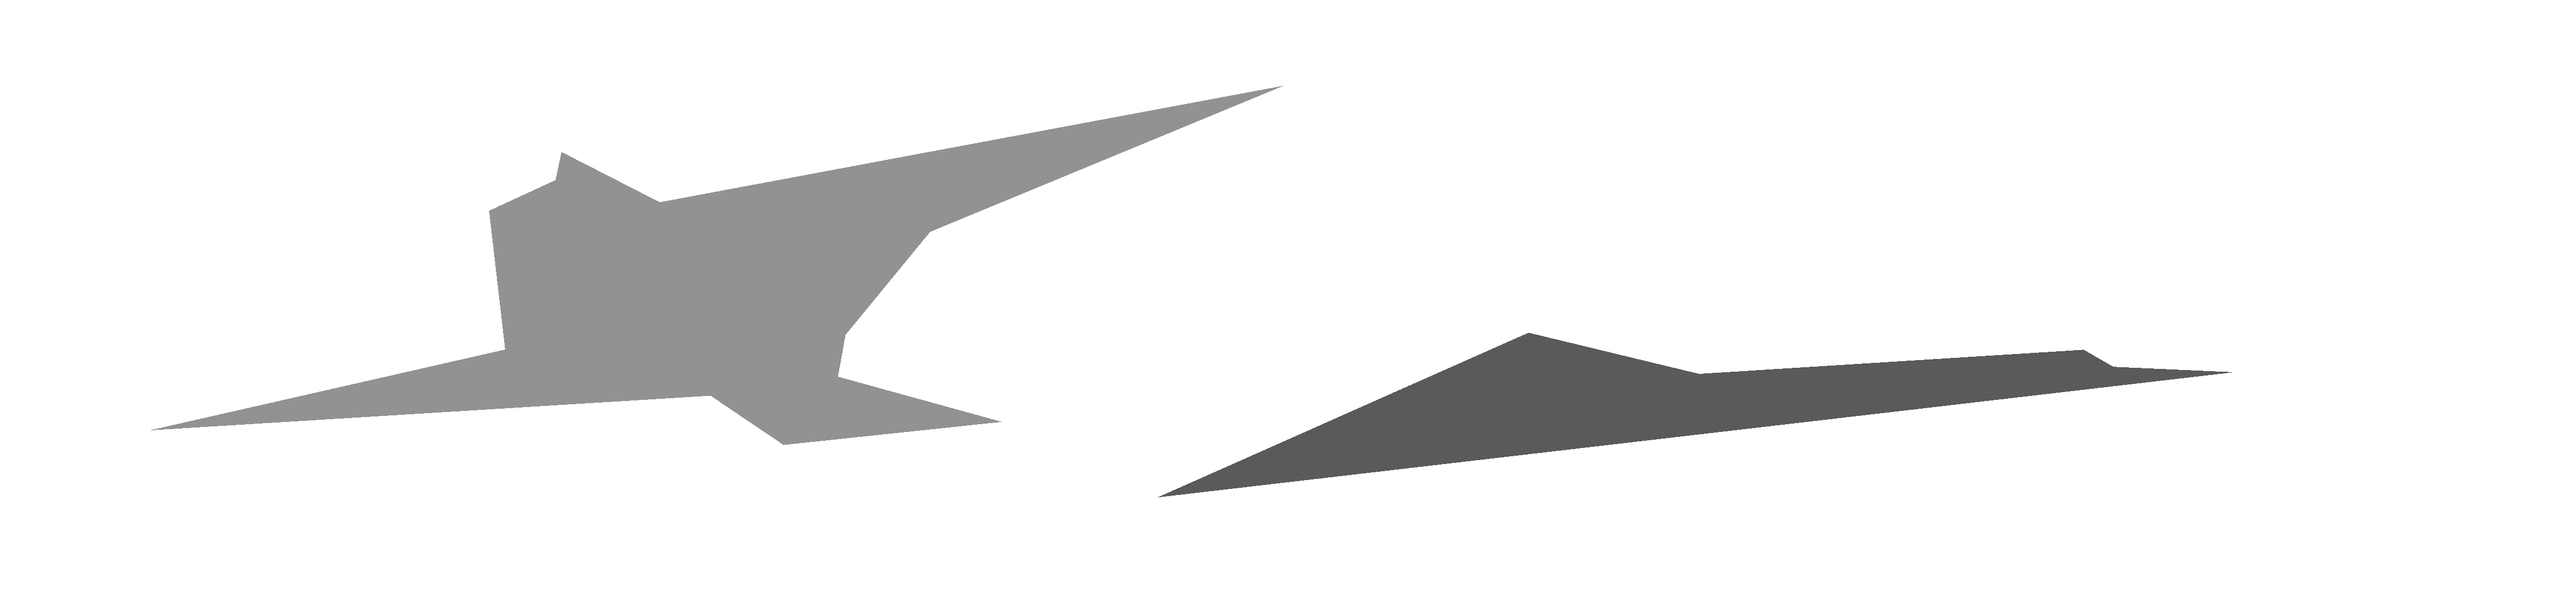
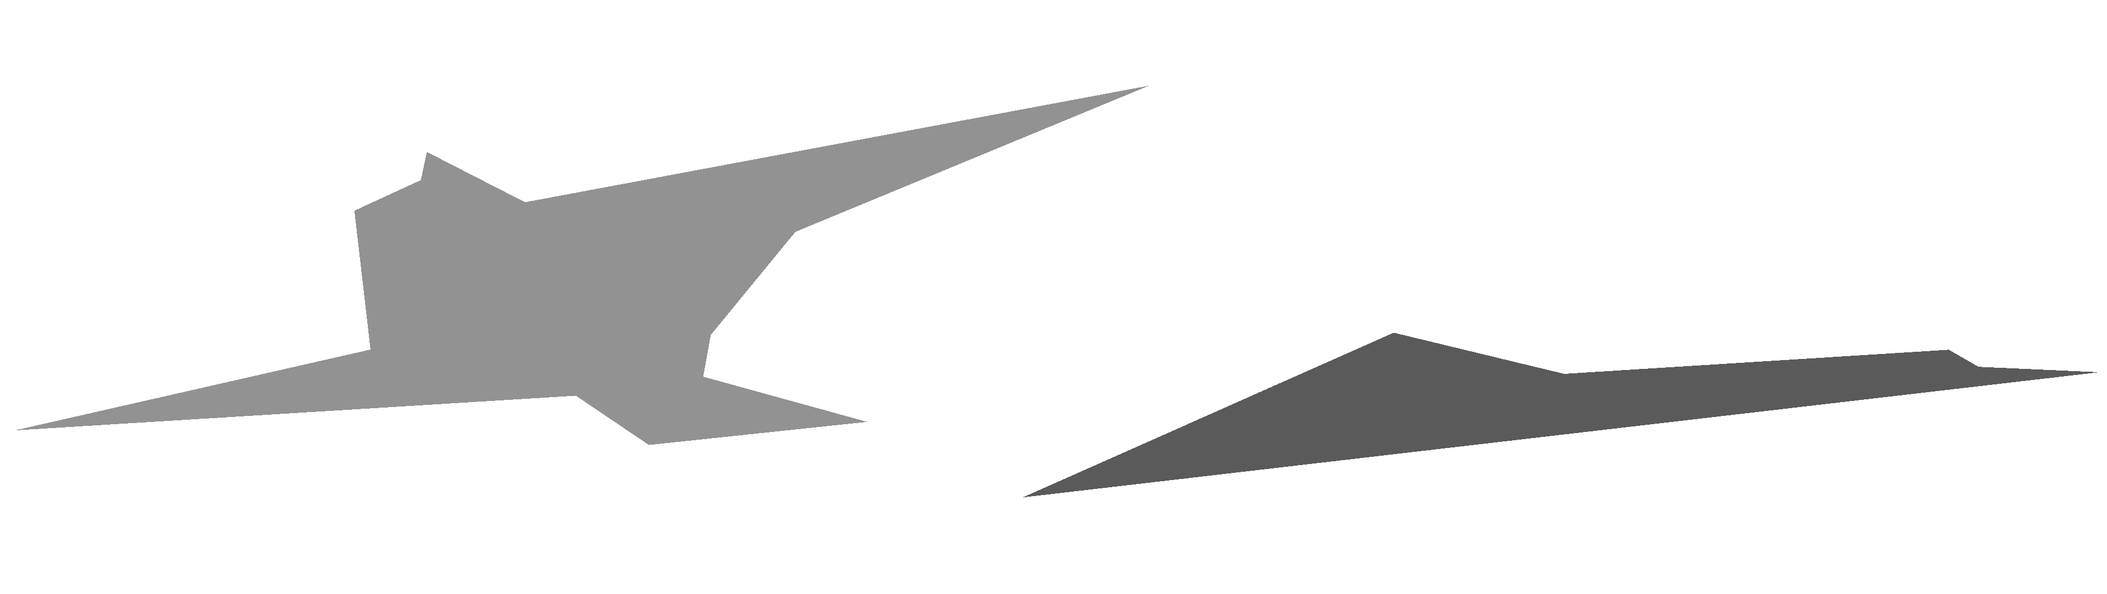
pooey

diff --git a/index.html b/index.html
@@ -1,7 +1,7 @@
 <!doctype html>
 <html>
   <head>
-      <link rel="stylesheet" href="../assets/style.css" type="text/css">
+      <link rel="stylesheet" href="/assets/style.css" type="text/css">
       <script>
           function resizeIframe(obj) {
             obj.style.height = obj.contentWindow.document.documentElement.scrollHeight + 'px';
@@ -11,7 +11,7 @@
   <body>
 <!-- 🔴 TOP NAV -->
     <header>
-      <a href="./index.html"><img src="./assets/soda/mebk.png" style="width:5em;"></a>
+      <a href="./index.html"><img src="./assets/soda/vectorgrey_nobg.png" style="width:20em;"></a>
     </header>
   
     <nav class="inline_bottom" style="pointer-events: auto;">
@@ -21,18 +21,18 @@
           <li><a a href="#" onclick="openInIframe_2()" class="nav-link">inspiration</a></li>
       </ul>
       <ul class="inline_bottom">
-          <iframe id="subpage" name="subpage"></iframe>
+          <iframe class="inline_bottom" id="subpage" name="subpage" onload="resizeIframe(this)"></iframe>
       </ul>
     </nav>
-    
+    <br>
 <!-- 🔴 MAIN -->
     <main>
       <iframe src="welcome.html" id="main" name="main" onload="resizeIframe(this)"></iframe>
 
 <!-- 🔴 FOOTER -->
       <footer>
-          <p><a href="/about.html">about me</a> | <a href="https://twitter.com/meirisoda">twitter</a> | <a href="https://github.com/meirisoda/meirisoda.github.io">source</a></p>
-          <p>© 2015-2024 meirisoda. All the rights to the original artworks and text belong to soda. No reproduction or republication without written permission.</p>
+          <p><a href="/pages/about.html" target="main">about me</a> | <a href="https://twitter.com/meirisoda">twitter</a> | <a href="https://github.com/meirisoda/meirisoda.github.io">source</a></p>
+          <p>©2024 meirisoda. All the rights to the original artworks and text belong to soda. No reproduction or republication without written permission.</p>
       </footer>
     </main>
 
@@ -69,6 +69,6 @@
         });
       });
     </script>
-    
+
   </body> 
 </html>

diff --git a/pages/works.html b/pages/works.html
@@ -1,12 +1,29 @@
 <!doctype html>
 <html>
     <head>
-        <link rel="stylesheet" href="../assets/style.css" type="text/css">
+        <link rel="stylesheet" href="/assets/style.css" type="text/css">
     </head>
 
     <body>
         <main>
-            THIS IS MY WORKS PAGE
+            soda creates through a variety of mediums, ranging from sound, illustration, to websites.
+            <br>
+            <br>
+            <br>
+            <details open>
+                <summary><mark>click</mark> <b><i><a href="/pages/works/visual.html">visual</a></i></b></summary>
+                <p>visual works (illustration, graphic design etc.).</p>
+            </details> 
+            <br>
+            <details open>
+                <summary><mark>click</mark> <b><i><a href="/pages/works/audio.html">audio</a></i></b></summary>
+                <p>audio works (music, snippets).</p>
+            </details> 
+            <br>
+            <details open>
+                <summary><mark>click</mark> <b><i><a href="/pages/works/other.html">other</a></i></b></summary>
+                <p>other things i've done/made that can't be categorized into the above categories.</p>
+            </details> 
         </main>
     </body>
     

diff --git a/pages/about.html b/pages/about.html
@@ -1,0 +1,23 @@
+<!doctype html>
+<html>
+    <head>
+        <link rel="stylesheet" href="/assets/style.css" type="text/css">
+    </head>
+
+    <body>
+        <main>
+            <img src="/assets/soda/ghostnobg.png" style="max-width: 20em;"><br>
+
+            <b>░s░o░d░a░</b>
+            soda (meirisoda) is an artist whose focus is to find closure and healing through art and music.<br>
+            ソーダ(meirisoda)は芸術と音楽を通じて終結と治癒を探すことに焦点を合わせた芸術家だ。<br>
+            <br>
+            <b>> i create </b>illustrations, music, design works, webdev, and sometimes writings<br>
+            <b>> i like </b>music, lightness, spectrums<br>
+            <b>> i use </b>sunvox, SuperCollider, Clip Studio Paint, Procreate<br>
+            <b>> i'm learning </b>to be. 
+    
+        </main>
+    </body>
+    
+</html>

diff --git a/assets/style.css b/assets/style.css
@@ -13,6 +13,7 @@ a:selection { color:black;}
 a img:hover { background-color: none;}
 
 mark {background: black; color:white;}
+/* mark:hover {background: white; color: black;} */
 
 header { float: left; margin: 20px 60px 20px 20px;}
 footer { clear: both; margin: 0; border-top: 1px dotted black; }
@@ -20,7 +21,7 @@ footer { clear: both; margin: 0; border-top: 1px dotted black; }
 h2 {
   background-color: #efefef;
 }
-nav { padding: 10px;}
+nav { padding: 25px; padding-left: 0px;}
 nav ul li {list-style-type: none;}
 
 .inline { display: inline-block; vertical-align:top;}
@@ -36,7 +37,7 @@ nav ul li {list-style-type: none;}
 
 iframe {
   border: none;
-  width: 60%
+  width: 50%
 }
 
 

diff --git a/welcome.html b/welcome.html
@@ -1,14 +1,15 @@
 <!doctype html>
 <html>
     <head>
-        <link rel="stylesheet" href="../assets/style.css" type="text/css">
+        <link rel="stylesheet" href="/assets/style.css" type="text/css">
     </head>
 
     <body>
         <main>
-            <img src="./assets/images/jaw.png" style="max-width: 50em;">
+            <p>See <a href="/pages/now.html" class="click">recent changes</a>.</p>
+            
+            <img src="/assets/images/jaw.png" style="max-width: 50em;">
     
-            <p>See <a href="./pages/now.html" class="click">recent changes</a>.</p>
         </main>
     </body>
     

diff --git a/pages/subpage/works.html b/pages/subpage/works.html
@@ -6,13 +6,13 @@
 
     <body class="link">
         <li>
-            <a href="/pages/visual.html" target="main">visual</a>
+            <a href="/pages/works/visual.html" target="main">visual</a>
         </li>
         <li>
-            <a href="/pages/audio.html" target="main">audio</a>
+            <a href="/pages/works/audio.html" target="main">audio</a>
         </li>
         <li>
-            <a href="/pages/other.html" target="main">other</a>
+            <a href="/pages/works/other.html" target="main">other</a>
         </li>
     </body>
 </html>

diff --git a/pages/works/other.html b/pages/works/other.html
@@ -1,12 +1,12 @@
 <!doctype html>
 <html>
     <head>
-        <link rel="stylesheet" href="../assets/style.css" type="text/css">
+        <link rel="stylesheet" href="/assets/style.css" type="text/css">
     </head>
 
     <body>
         <main>
-            THIS IS MY VISUAL PAGE
+            THIS IS MY OTHER PAGE
         </main>
     </body>
     

diff --git a/pages/works/visual.html b/pages/works/visual.html
@@ -1,12 +1,12 @@
 <!doctype html>
 <html>
     <head>
-        <link rel="stylesheet" href="../assets/style.css" type="text/css">
+        <link rel="stylesheet" href="/assets/style.css" type="text/css">
     </head>
 
     <body>
         <main>
-            THIS IS MY OTHER PAGE
+            THIS IS MY VISUAL PAGE
         </main>
     </body>
     

diff --git a/pages/archive/header2.html b/pages/archive/header2.html
@@ -1,7 +1,7 @@
 <!doctype html>
 <html>
     <head>
-        <link rel="stylesheet" href="../assets/style.css" type="text/css">
+        <link rel="stylesheet" href="/assets/style.css" type="text/css">
     </head>
 
     <body>

diff --git a/pages/blog.html b/pages/blog.html
@@ -1,7 +1,7 @@
 <!doctype html>
 <html>
     <head>
-        <link rel="stylesheet" href="../assets/style.css" type="text/css">
+        <link rel="stylesheet" href="/assets/style.css" type="text/css">
     </head>
 
     <body>

diff --git a/pages/inspiration.html b/pages/inspiration.html
@@ -1,7 +1,7 @@
 <!doctype html>
 <html>
     <head>
-        <link rel="stylesheet" href="../assets/style.css" type="text/css">
+        <link rel="stylesheet" href="/assets/style.css" type="text/css">
     </head>
 
     <body>

diff --git a/pages/works/audio.html b/pages/works/audio.html
@@ -1,7 +1,7 @@
 <!doctype html>
 <html>
     <head>
-        <link rel="stylesheet" href="../assets/style.css" type="text/css">
+        <link rel="stylesheet" href="/assets/style.css" type="text/css">
     </head>
 
     <body>
